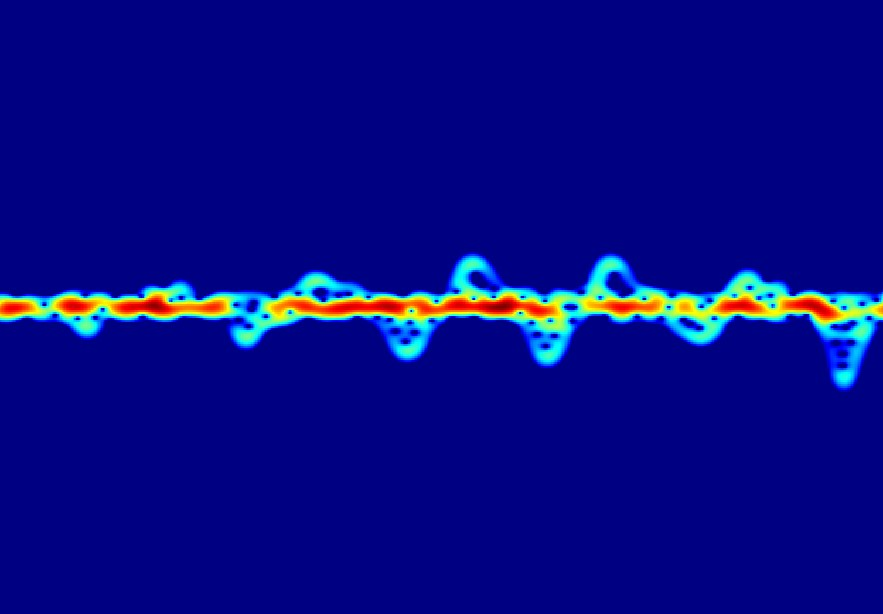
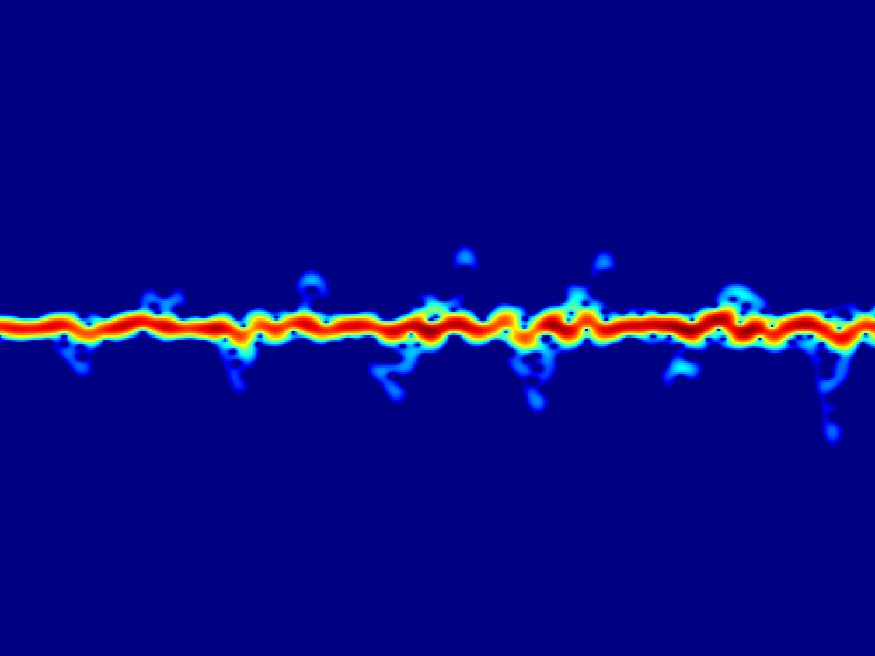
update some bullshit codes

Changed region(s): [[0.0, 0.3713, 1.0, 0.6808]]

diff --git a/simuSpectrogram.m b/simuSpectrogram.m
@@ -115,7 +115,7 @@ if drawScenario == true
                 a = norm(aspect)/4;
                 b = norm(aspect)/4;
                 c = norm(aspect)/2;
-                [X,Y,Z] = ellipsoid2P(joint1,joint2,a,b,c,10);
+                [X,Y,Z] = ellipsoid2P_transformed(joint1,joint2,a,b,c,10);
                 surf(Z,X,Y);
                 colormap white;
             end
@@ -182,26 +182,53 @@ for nf = 1:NframesNew
         a = norm(aspect)/4;
         b = norm(aspect)/4;
         c = norm(aspect)/2;
-        radius = norm(aspect)/4;
-        len = norm(aspect);
+        radius = norm(aspect)/4; % a, b
+        len = norm(aspect)/2; % c
+        %%%%%%%%%%%%%%%%%%%%%%%% method 1 (dot production) %%%%%%%%%%%%%%%%%%%%%
         % Calculate theta
-        Cos_Theta_i = dot(Tx_pos-mid,aspect)/norm(mid-Tx_pos)/norm(aspect);
+        Cos_Theta_i = dot(mid-Tx_pos,aspect)/norm(mid-Tx_pos)/norm(aspect);
         Theta_i = acos(Cos_Theta_i);
-        Cos_Theta_s = dot(Rx_pos-mid,aspect)/norm(mid-Rx_pos)/norm(aspect);
+        Cos_Theta_s = dot(mid-Rx_pos,aspect)/norm(mid-Rx_pos)/norm(aspect);
         Theta_s = acos(Cos_Theta_s);
-%         % Calculate phi
-%         Sin_Phi_i = (Tx_pos(2) - mid(2))/sqrt((Tx_pos(1)-mid(1))^2+(Tx_pos(2)-mid(2))^2);
-%         Phi_i = asin(Sin_Phi_i);
-%         Sin_Phi_s = (Rx_pos(2) - mid(2))/sqrt((Rx_pos(1)-mid(1))^2+(Rx_pos(2)-mid(2))^2);
-%         Phi_s = asin(Sin_Phi_s);
+        % Calculate phi (possible wrong)
+        Sin_Phi_i = (Tx_pos(2) - mid(2))/sqrt((Tx_pos(1)-mid(1))^2+(Tx_pos(2)-mid(2))^2);
+        Phi_i = asin(Sin_Phi_i);
+        Sin_Phi_s = (Rx_pos(2) - mid(2))/sqrt((Rx_pos(1)-mid(1))^2+(Rx_pos(2)-mid(2))^2);
+        Phi_s = asin(Sin_Phi_s);
         % Calculate bistatic phi
         normal_vector = aspect / norm(aspect);
         Tx_projection = Tx_pos - dot(Tx_pos - mid, normal_vector) * normal_vector;
         Rx_projection = Rx_pos - dot(Rx_pos - mid, normal_vector) * normal_vector;
         bistatic_angle_phi = acos(dot(Tx_projection - mid, Rx_projection - mid) / (norm(Tx_projection - mid) * norm(Rx_projection - mid)));
+        %%%%%%%%%%%%%%%%%%%%%%%% method 2 (transformation matrix) %%%%%%%%%%%%%%%%%%%%%%%%
+        V = normal_vector; % normalized cylinder's axis-vector;
+        U = rand(1,3);     % linear independent vector
+        U = V-U/(U*V');    % orthogonal vector to V
+        U = U/sqrt(U*U');  % orthonormal vector to V
+        W = cross(V,U);    % vector orthonormal to V and U
+        W = W/sqrt(W*W');  % orthonormal vector to V and U
+        R = [U.', W.', V.'];
+        T = eye(4);
+        T(1:3, 1:3) = R;
+        T(1:3, 4) = mid;
+        Tx_local = inv(T)*[Tx_pos 1].'; Tx_local = Tx_local(1:3);
+        Rx_local = inv(T)*[Rx_pos 1].'; Rx_local = Rx_local(1:3);
+        [Phi_i2,Theta_i2,R_Tx2] = my_cart2sph(Tx_local(1),Tx_local(2),Tx_local(3));
+        [Phi_s2,Theta_s2,R_Rx2] = my_cart2sph(Rx_local(1),Rx_local(2),Rx_local(3));
         % rcsellipsoid/R^2 is based on bistatic radar range equation
-%         Amp = sqrt(rcsellipsoid(a,b,c,Phi_i,Theta_i,Phi_s,Theta_s))/R_Rx/R_Tx;
-        Amp = brcsellipsoid_circle(len,radius,bistatic_angle_phi,Theta_i,Theta_s)/R_Rx/R_Tx;
+        % These two amplitudes are equal
+        Amp = sqrt(brcsellipsoid_circle(len,radius,bistatic_angle_phi,Theta_i,Theta_s))/R_Rx/R_Tx;
+        Amp2 = sqrt(rcsellipsoid(a,b,c,Phi_i2,Theta_i2,Phi_s2,Theta_s2))/R_Rx/R_Tx;
+        
+%         sin(Theta_i)-sin(Theta_i2)
+%         sin(Theta_s)-sin(Theta_s2)
+%         cos(Theta_i)+cos(Theta_i2)
+%         cos(Theta_s)+cos(Theta_s2)
+%         R_Tx-R_Tx2
+%         R_Rx-R_Rx2
+%         bistatic_angle_phi-abs(Phi_s2-Phi_i2)
+%         Amp-Amp2
+
         Phase = exp(-1i*2*pi*(R_Tx+R_Rx)/lambda);
         rcs_joint = Amp*Phase;
         if isnan(rcs_joint)
@@ -213,7 +240,6 @@ for nf = 1:NframesNew
 end
 
 RCS = RCS + (AWGN_mean + AWGN_var*rand(size(RCS)));
-
 %% micro-Doppler signature
 % 1/fs*v < c/fc; fs>fc/c*v
 F = fs;

diff --git a/testHand_bistatic.m b/testHand_bistatic.m
@@ -5,12 +5,12 @@ Rx_pos = [0 -0.1 0.1]; % XYZ
 % Rx_pos = [0.4 -0.1 0.1]; % XYZ
 fc = 60.48e9;
 fs = 2000;
-% AWGN_mean = 0.005;
-% AWGN_var = 0.001;
 AWGN_mean = 0.005;
-AWGN_var = 0.0001;
+AWGN_var = 0.001;
+% AWGN_mean = 0.005;
+% AWGN_var = 0.0001;
 thres_A_TRD = -30;
-drawScenario = true;
+drawScenario = false;
 rcsRendering = true;
 using_camera_coordinate = true;
 
@@ -34,7 +34,7 @@ output_gif_path = sprintf('./output2/%s.gif',name);
 %     connections,output_jpg_path,output_gif_path,true);
 simuSpectrogram(Tx_pos,Rx_pos,fc,fs,AWGN_mean,AWGN_var,thres_A_TRD, ...
     drawScenario,rcsRendering,input_mat_path,using_camera_coordinate, ...
-    connections,output_jpg_path,output_gif_path,true);
+    connections,output_jpg_path,output_gif_path,false);
 % simuSpectrogram_v4(Tx_pos,Rx_pos,fc,fs,AWGN_mean,AWGN_var,thres_A_TRD, ...
 %     drawScenario,rcsRendering,input_mat_path,using_camera_coordinate, ...
 %     connections,output_jpg_path,output_gif_path,false);

diff --git a/ellipsoid2P_transformed.m b/ellipsoid2P_transformed.m
@@ -1,0 +1,31 @@
+function [X, Y, Z] = ellipsoid2P_transformed(P1, P2, a, b, c, N)
+Cntr = (P1+P2)/2;  % ellipsoid center
+Lc = norm(P2-P1);
+
+% the axis defined by: P1+V*[0:Lc]
+V = (P1-P2)/Lc;   %normalized cylinder's axis-vector;
+U = rand(1,3);     %linear independent vector
+U = V-U/(U*V');    %orthogonal vector to V
+U = U/sqrt(U*U');  %orthonormal vector to V
+W = cross(V,U);    %vector orthonormal to V and U
+W = W/sqrt(W*W');  %orthonormal vector to V and U 
+R = [U.', W.', V.'];
+T = eye(4);
+T(1:3, 1:3) = R;
+T(1:3, 4) = Cntr;
+
+% generate the ellipsoid at (0,0,0)
+[Xc,Yc,Zc] = ellipsoid(0,0,0,a,b,c,N);
+X = zeros(size(Xc));
+Y = zeros(size(Yc));
+Z = zeros(size(Zc));
+for ii = 1:size(Xc,1)
+for jj = 1:size(Xc,2)
+    local_coords = [Xc(ii,jj);Yc(ii,jj);Zc(ii,jj);1];
+    global_coords = T*local_coords;
+    X(ii,jj) = global_coords(1);
+    Y(ii,jj) = global_coords(2);
+    Z(ii,jj) = global_coords(3);
+end
+end
+end

diff --git a/my_cart2sph.m b/my_cart2sph.m
@@ -1,0 +1,12 @@
+function [azimuth,elevation,r] = my_cart2sph(x,y,z)
+% matlab自带的坐标转化有问题
+% https://www.mathworks.com/help/releases/R2022b/matlab/ref/cart2sph.html
+% matlab计算的elevation角以x轴为基准，正负pi/2, 如下
+% azimuth = atan2(y,x)
+% elevation = atan2(z,sqrt(x.^2 + y.^2))
+% r = sqrt(x.^2 + y.^2 + z.^2)
+% https://zhuanlan.zhihu.com/p/34485962
+  r = sqrt(x^2 + y^2 + z^2);
+  elevation = acos(z/r);
+  azimuth = atan2(y,x);
+end

diff --git a/brcsellipsoid_circle.m b/brcsellipsoid_circle.m
@@ -2,7 +2,7 @@ function rcs = brcsellipsoid_circle(len,radius,bistatic_angle_phi,theta_i,theta_
 % bistatic rcs for an ellipsoid with circular section.
 a = radius;
 b = radius;
-c = len/2;
+c = len;
 rcs = (4*pi*a^2*b^2*c^2)*((1+cos(theta_i)*cos(theta_s))*cos(bistatic_angle_phi)+sin(theta_i)*sin(theta_s))^2/ ...
     (a^2*(sin(theta_i)^2+sin(theta_s)^2+2*sin(theta_i)*sin(theta_s)*cos(bistatic_angle_phi))+...
     c^2*(cos(theta_i)+cos(theta_s))^2 ...

diff --git a/test2.m b/test2.m
@@ -1,0 +1,19 @@
+clc; clear; close all;
+P1 = [0, 0, -5];
+P2 = [2, 2, 2];
+c = norm(P1-P2)/2;
+a = c / 2;
+b = c / 2; 
+tx = scatter3(P1(1),P1(2),P1(3),100,"magenta",'*');
+hold on;
+rx = scatter3(P2(1),P2(2),P2(3),100,"black",'*');
+[X,Y,Z] = ellipsoid2P_transformed(P1,P2,a,b,c,11);
+surf(X,Y,Z);
+xlabel('x')
+ylabel('y')
+zlabel('z')
+% xlim([0 4])
+% ylim([0 4])
+% zlim([0 4])
+colormap white;
+axis equal;

diff --git a/ellipsoid2P.m b/ellipsoid2P.m
@@ -34,4 +34,5 @@ X = TMP(1:nt,:)+Cntr(1);
 Y = TMP(nt+1:2*nt,:)+Cntr(2);
 Z = TMP(2*nt+1:end,:)+Cntr(3);
 
+
 %%%%%%%%%%%%%%%%%%%%%%%%%%%%%%%%%%%%%%%%%%%%%%%%%%%%%%%%%%%%%%%%%%%%%
